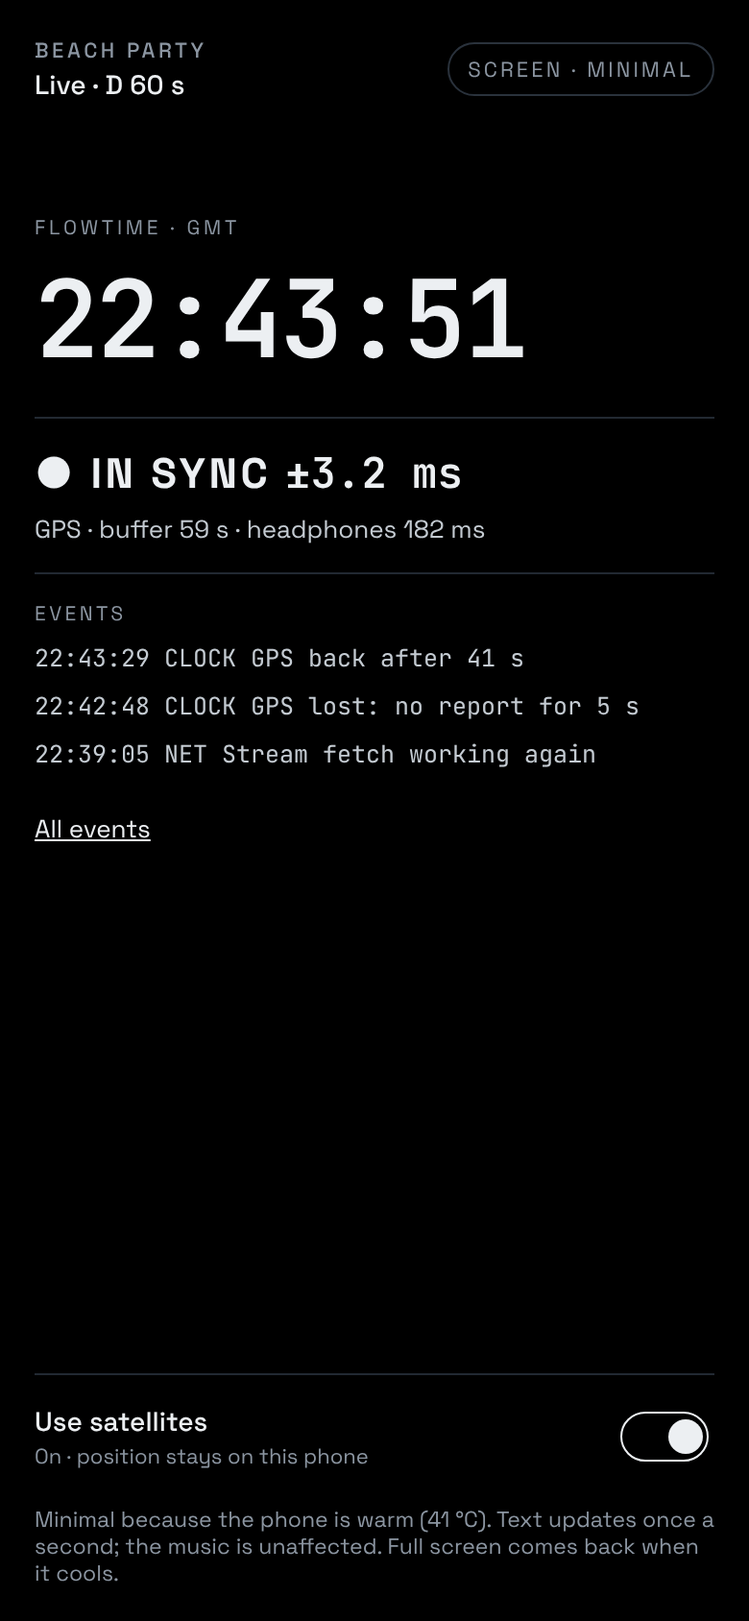
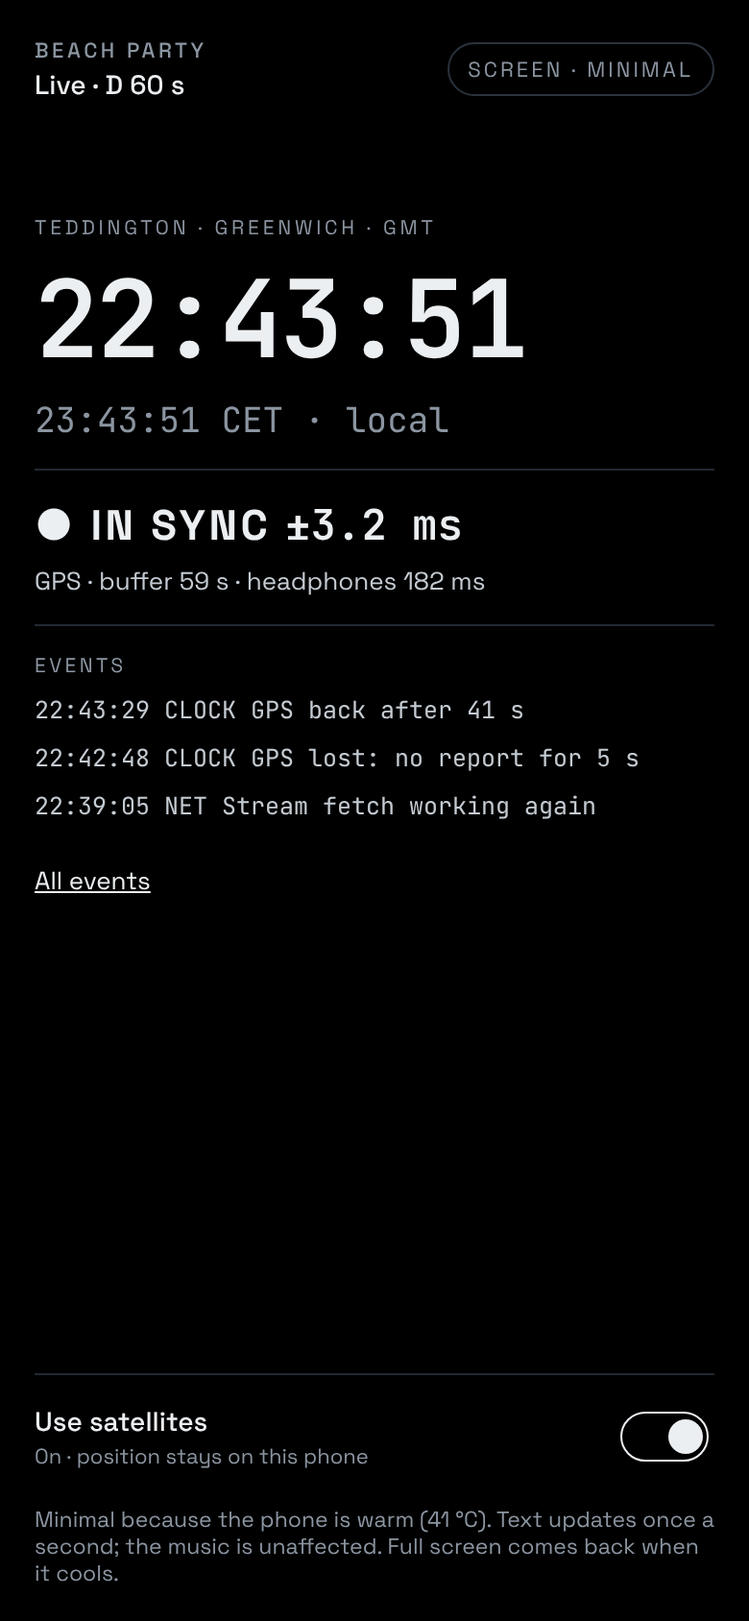
Add design hand-off 02 from Claude Desktop
Teddington and Greenwich clocks, a Settings screen, and updates to now playing,
Minimal, test bench, event log, tokens and the UI spec. Start at
design/handoff-02.md.

diff --git a/design/screens/now-playing.html b/design/screens/now-playing.html
@@ -12,7 +12,7 @@ a{color:#C8FF4D}a:hover{color:#E2FF9E}
 </style>
 </head>
 <body>
-<div style="width: 390px; height: 844px; box-sizing: border-box; background: #0A0C0F; color: #ECEFF2; font-family: 'Space Grotesk', system-ui, sans-serif; padding: 14px 18px 18px; display: flex; flex-direction: column; gap: 9px; overflow: hidden">
+<div style="width: 390px; height: 844px; box-sizing: border-box; background: #0A0C0F; color: #ECEFF2; font-family: 'Space Grotesk', system-ui, sans-serif; padding: 12px 18px 16px; display: flex; flex-direction: column; gap: 8px; overflow: hidden">
 
   <div style="display: flex; justify-content: space-between; align-items: center">
     <div style="display: flex; flex-direction: column; gap: 2px">
@@ -26,22 +26,32 @@ a{color:#C8FF4D}a:hover{color:#E2FF9E}
       <a href="headphone-lag.html" aria-label="Headphone lag" style="width: 44px; height: 44px; border-radius: 12px; border: 1px solid #222932; display: flex; align-items: center; justify-content: center; color: #ECEFF2">
         <svg width="20" height="20" viewBox="0 0 24 24" fill="none" stroke="currentColor" stroke-width="1.6" aria-hidden="true"><path d="M4 14v-2a8 8 0 0 1 16 0v2"></path><rect x="3" y="14" width="4" height="6" rx="1.5"></rect><rect x="17" y="14" width="4" height="6" rx="1.5"></rect></svg>
       </a>
+      <a href="settings.html" aria-label="Settings" style="width: 44px; height: 44px; border-radius: 12px; border: 1px solid #222932; display: flex; align-items: center; justify-content: center; color: #ECEFF2">
+        <svg width="20" height="20" viewBox="0 0 24 24" fill="none" stroke="currentColor" stroke-width="1.6" aria-hidden="true"><path d="M4 7h10M18 7h2M4 17h4M12 17h8"></path><circle cx="16" cy="7" r="2"></circle><circle cx="10" cy="17" r="2"></circle></svg>
+      </a>
     </div>
   </div>
 
-  <div style="position: relative; width: 184px; height: 184px; align-self: center">
-    <svg width="184" height="184" viewBox="0 0 220 220" role="img" aria-label="Brocast clock with second sweep and precision ring" style="position: absolute; left: 0; top: 0">
-      <circle cx="110" cy="110" r="104" fill="none" stroke="#2A323C" stroke-width="6" stroke-dasharray="1.4 9.49"></circle>
-      <circle cx="110" cy="110" r="92" fill="none" stroke="#1A1F26" stroke-width="3"></circle>
-      <circle cx="110" cy="110" r="92" fill="none" stroke="#C8FF4D" stroke-width="3" stroke-linecap="round" stroke-dasharray="137 578" transform="rotate(-90 110 110)"></circle>
-      <circle cx="110" cy="110" r="80" fill="none" stroke="#C8FF4D" stroke-opacity="0.35" stroke-width="1"></circle>
-      <circle cx="110" cy="110" r="80" fill="none" stroke="#C8FF4D" stroke-opacity="0.12" stroke-width="7"></circle>
+  <div style="position: relative; width: 206px; height: 206px; flex: none; align-self: center">
+    <svg width="206" height="206" viewBox="0 0 252 252" role="img" aria-label="Brocast clock: Teddington and Greenwich time on the bezel, a second sweep and a precision ring of plus or minus 0.4 milliseconds" style="position: absolute; left: 0; top: 0">
+      <defs>
+        <path id="bezel-top" d="M 13 126 A 113 113 0 0 1 239 126"></path>
+        <path id="bezel-bottom" d="M 7 126 A 119 119 0 0 0 245 126"></path>
+      </defs>
+      <circle cx="126" cy="126" r="104" fill="none" stroke="#2A323C" stroke-width="6" stroke-dasharray="1.4 9.49"></circle>
+      <line x1="126" y1="17" x2="126" y2="29" stroke="#C8FF4D" stroke-width="2"></line>
+      <circle cx="126" cy="126" r="92" fill="none" stroke="#1A1F26" stroke-width="3"></circle>
+      <circle cx="126" cy="126" r="92" fill="none" stroke="#C8FF4D" stroke-width="3" stroke-linecap="round" stroke-dasharray="137 578" transform="rotate(-90 126 126)"></circle>
+      <circle cx="126" cy="126" r="80" fill="none" stroke="#C8FF4D" stroke-opacity="0.35" stroke-width="1"></circle>
+      <circle cx="126" cy="126" r="80" fill="none" stroke="#C8FF4D" stroke-opacity="0.12" stroke-width="7"></circle>
+      <text font-family="Space Grotesk, system-ui, sans-serif" font-size="10" font-weight="500" letter-spacing="2.4" fill="#C4CBD2"><textPath href="#bezel-top" startOffset="50%" text-anchor="middle">TEDDINGTON · GREENWICH</textPath></text>
+      <text font-family="JetBrains Mono, monospace" font-size="10" letter-spacing="1.2" fill="#C8FF4D"><textPath href="#bezel-bottom" startOffset="50%" text-anchor="middle">FLOWTIME ±0.4 ms</textPath></text>
     </svg>
-    <div style="position: absolute; inset: 0; display: flex; flex-direction: column; align-items: center; justify-content: center; gap: 2px">
-      <span style="font-size: 10.5px; letter-spacing: 0.18em; color: #8B95A1">FLOWTIME · GMT</span>
-      <span style="font-family: 'JetBrains Mono', ui-monospace, monospace; font-size: 32px; font-weight: 600; letter-spacing: -0.02em">22:43:51</span>
-      <span style="font-family: 'JetBrains Mono', ui-monospace, monospace; font-size: 16px"><span style="color: #ECEFF2">.237 4</span><span style="color: #6B7580">82 913</span></span>
-      <span style="font-family: 'JetBrains Mono', ui-monospace, monospace; font-size: 11px; color: #C8FF4D; margin-top: 4px">ring ±0.4 ms</span>
+    <div style="position: absolute; inset: 0; display: flex; flex-direction: column; align-items: center; justify-content: center; gap: 1px">
+      <span style="font-size: 10.5px; letter-spacing: 0.2em; color: #8B95A1">GMT</span>
+      <span style="font-family: 'JetBrains Mono', ui-monospace, monospace; font-size: 30px; font-weight: 600; letter-spacing: -0.02em">22:43:51</span>
+      <span style="font-family: 'JetBrains Mono', ui-monospace, monospace; font-size: 15px"><span style="color: #ECEFF2">.237 4</span><span style="color: #6B7580">82 913</span></span>
+      <span style="font-family: 'JetBrains Mono', ui-monospace, monospace; font-size: 11px; color: #8B95A1; margin-top: 3px">23:43:51 CET · local</span>
     </div>
   </div>
 
@@ -61,7 +71,7 @@ a{color:#C8FF4D}a:hover{color:#E2FF9E}
     <svg width="16" height="16" viewBox="0 0 24 24" fill="none" stroke="currentColor" stroke-width="2" aria-hidden="true"><path d="M9 5l7 7-7 7"></path></svg>
   </a>
 
-  <div style="background: #12161B; border: 1px solid #222932; border-radius: 14px; padding: 12px 14px; display: flex; flex-direction: column; gap: 8px">
+  <div style="background: #12161B; border: 1px solid #222932; border-radius: 14px; padding: 10px 14px; display: flex; flex-direction: column; gap: 6px">
     <div style="display: flex; justify-content: space-between; align-items: baseline">
       <span style="font-size: 10.5px; letter-spacing: 0.16em; color: #8B95A1">SYNC ERROR BUDGET · 95%</span>
       <span style="font-family: 'JetBrains Mono', ui-monospace, monospace; font-size: 13px; color: #C8FF4D">±3.2 ms</span>
@@ -90,7 +100,7 @@ a{color:#C8FF4D}a:hover{color:#E2FF9E}
       <span style="font-size: 10.5px; letter-spacing: 0.16em; color: #8B95A1">STREAM GAP · 60 s</span>
       <span style="font-family: 'JetBrains Mono', ui-monospace, monospace; font-size: 12px; color: #C8FF4D">0.2 ms · closing</span>
     </div>
-    <svg width="100%" height="46" viewBox="0 0 350 90" preserveAspectRatio="none" role="img" aria-label="Stream gap over the last minute: a step when GPS came back, closing smoothly">
+    <svg width="100%" height="34" viewBox="0 0 350 90" preserveAspectRatio="none" role="img" aria-label="Stream gap over the last minute: a step when GPS came back, closing smoothly">
       <rect x="0" y="29" width="350" height="32" fill="#C8FF4D" fill-opacity="0.08"></rect>
       <line x1="0" y1="45" x2="350" y2="45" stroke="#2A323C" stroke-dasharray="3 4"></line>
       <polyline fill="none" stroke="#C8FF4D" stroke-width="1.6" stroke-linejoin="round" points="0.0,46.2 5.8,43.6 11.7,44.9 17.5,46.4 23.3,50.7 29.2,50.8 35.0,44.6 40.8,42.6 46.7,38.0 52.5,37.9 58.3,37.0 64.2,37.4 70.0,46.5 75.8,42.2 81.7,40.2 87.5,38.5 93.3,47.6 99.2,55.6 105.0,58.3 110.8,58.5 116.7,55.0 122.5,53.7 128.3,49.9 134.2,52.3 140.0,49.7 145.8,47.1 151.7,50.0 157.5,41.0 163.3,38.9 169.2,34.1 175.0,38.7 180.8,43.2 186.7,45.1 192.5,45.6 198.3,42.5 204.2,41.7 210.0,44.3 215.8,49.0 221.7,30.9 227.5,27.2 233.3,33.7 239.2,34.2 245.0,33.8 250.8,42.6 256.7,42.8 262.5,36.8 268.3,47.7 274.2,48.9 280.0,48.8 285.8,52.1 291.7,48.7 297.5,48.4 303.3,54.9 309.2,49.5 315.0,45.6 320.8,41.0 326.7,34.7 332.5,34.5 338.3,35.5 344.2,43.1 350.0,40.5"></polyline>
@@ -121,29 +131,16 @@ a{color:#C8FF4D}a:hover{color:#E2FF9E}
     </div>
   </div>
 
-  <div style="display: grid; grid-template-columns: repeat(2, minmax(0, 1fr)); gap: 8px">
-    <div style="display: flex; align-items: center; justify-content: space-between; gap: 4px; background: #12161B; border: 1px solid #222932; border-radius: 12px; padding: 4px 4px 4px 12px">
-      <div style="display: flex; flex-direction: column; gap: 1px; min-width: 0">
-        <span style="font-size: 13.5px; font-weight: 500">Use satellites</span>
-        <span style="font-size: 10.5px; color: #8B95A1">Stays on phone</span>
-      </div>
-      <button aria-pressed="true" aria-label="Use satellites, on" style="appearance: none; width: 52px; height: 44px; flex: none; background: transparent; border: none; padding: 0; display: flex; align-items: center; justify-content: center; cursor: pointer">
-        <span style="width: 46px; height: 26px; border-radius: 13px; background: #C8FF4D; display: flex; align-items: center; justify-content: flex-end; padding: 2px; box-sizing: border-box">
-          <span style="width: 22px; height: 22px; border-radius: 50%; background: #0A0C0F"></span>
-        </span>
-      </button>
+  <div style="display: flex; align-items: center; justify-content: space-between; gap: 12px; background: #12161B; border: 1px solid #222932; border-radius: 12px; padding: 4px 4px 4px 12px">
+    <div style="display: flex; flex-direction: column; gap: 1px">
+      <span style="font-size: 14px; font-weight: 500">Use satellites</span>
+      <span style="font-size: 11px; color: #8B95A1">Position stays on this phone · off = Privacy mode</span>
     </div>
-    <div style="display: flex; align-items: center; justify-content: space-between; gap: 4px; background: #12161B; border: 1px solid #222932; border-radius: 12px; padding: 4px 4px 4px 12px">
-      <div style="display: flex; flex-direction: column; gap: 1px; min-width: 0">
-        <span style="font-size: 13.5px; font-weight: 500">Strict mode</span>
-        <span style="font-size: 10.5px; color: #8B95A1">Silent over 5 ms</span>
-      </div>
-      <button aria-pressed="false" aria-label="Strict mode, off" style="appearance: none; width: 52px; height: 44px; flex: none; background: transparent; border: none; padding: 0; display: flex; align-items: center; justify-content: center; cursor: pointer">
-        <span style="width: 46px; height: 26px; border-radius: 13px; border: 1.5px solid #4A5562; display: flex; align-items: center; padding: 2px; box-sizing: border-box">
-          <span style="width: 18px; height: 18px; border-radius: 50%; background: #8B95A1"></span>
-        </span>
-      </button>
-    </div>
+    <button aria-pressed="true" aria-label="Use satellites, on" style="appearance: none; width: 52px; height: 44px; flex: none; background: transparent; border: none; padding: 0; display: flex; align-items: center; justify-content: center; cursor: pointer">
+      <span style="width: 46px; height: 26px; border-radius: 13px; background: #C8FF4D; display: flex; align-items: center; justify-content: flex-end; padding: 2px; box-sizing: border-box">
+        <span style="width: 22px; height: 22px; border-radius: 50%; background: #0A0C0F"></span>
+      </span>
+    </button>
   </div>
 
 </div>

diff --git a/design/screens/settings.html b/design/screens/settings.html
@@ -1,0 +1,88 @@
+<!doctype html>
+<html lang="en">
+<head>
+<meta charset="utf-8">
+<meta name="viewport" content="width=390">
+<title>Settings · Beach Sync</title>
+<!-- Exported from the Beach Sync UI Mock-ups canvas. Static: tokens are in ../tokens.json, behaviour in ../ui-spec.md -->
+<link rel="stylesheet" href="https://fonts.googleapis.com/css2?family=JetBrains+Mono:wght@400;600&amp;family=Space+Grotesk:wght@400;500;700&amp;display=swap">
+<style>
+body{margin:0;background:#0A0C0F}
+a{color:#C8FF4D}a:hover{color:#E2FF9E}
+</style>
+</head>
+<body>
+<div style="width: 390px; height: 844px; box-sizing: border-box; background: #0A0C0F; color: #ECEFF2; font-family: 'Space Grotesk', system-ui, sans-serif; padding: 14px 18px 18px; display: flex; flex-direction: column; gap: 10px; overflow: hidden">
+
+  <a href="now-playing.html" style="display: flex; align-items: center; gap: 6px; min-height: 44px; text-decoration: none; color: #ECEFF2; font-size: 18px; font-weight: 700">
+    <svg width="18" height="18" viewBox="0 0 24 24" fill="none" stroke="currentColor" stroke-width="2" aria-hidden="true"><path d="M15 5l-7 7 7 7"></path></svg>
+    Settings
+  </a>
+
+  <span style="font-size: 10.5px; letter-spacing: 0.16em; color: #8B95A1; margin-top: 4px">LISTENING</span>
+  <div style="background: #12161B; border: 1px solid #222932; border-radius: 14px; padding: 0 4px 0 14px; display: flex; flex-direction: column">
+    <div style="display: flex; align-items: center; justify-content: space-between; gap: 12px; min-height: 60px; border-bottom: 1px solid #1A1F26">
+      <div style="display: flex; flex-direction: column; gap: 2px">
+        <span style="font-size: 14px; font-weight: 500">Use satellites</span>
+        <span style="font-size: 11px; color: #8B95A1">Position stays on this phone · off = Privacy mode</span>
+      </div>
+      <button aria-pressed="true" aria-label="Use satellites, on" style="appearance: none; width: 52px; height: 44px; flex: none; background: transparent; border: none; padding: 0; display: flex; align-items: center; justify-content: center; cursor: pointer">
+        <span style="width: 46px; height: 26px; border-radius: 13px; background: #C8FF4D; display: flex; align-items: center; justify-content: flex-end; padding: 2px; box-sizing: border-box"><span style="width: 22px; height: 22px; border-radius: 50%; background: #0A0C0F"></span></span>
+      </button>
+    </div>
+    <a href="headphone-lag.html" style="text-decoration: none; color: #ECEFF2; display: flex; align-items: center; justify-content: space-between; gap: 12px; min-height: 60px; padding-right: 10px; border-bottom: 1px solid #1A1F26">
+      <span style="display: flex; flex-direction: column; gap: 2px"><span style="font-size: 14px; font-weight: 500">Headphones</span><span style="font-size: 11px; color: #8B95A1">Bluetooth · 182 ms measured</span></span>
+      <svg width="16" height="16" viewBox="0 0 24 24" fill="none" stroke="currentColor" stroke-width="2" aria-hidden="true"><path d="M9 5l7 7-7 7"></path></svg>
+    </a>
+    <div style="display: flex; align-items: center; justify-content: space-between; gap: 12px; min-height: 60px">
+      <div style="display: flex; flex-direction: column; gap: 2px">
+        <span style="font-size: 14px; font-weight: 500">Local time under the clock</span>
+        <span style="font-size: 11px; color: #8B95A1">Teddington · Greenwich stays on top</span>
+      </div>
+      <button aria-pressed="true" aria-label="Local time under the clock, on" style="appearance: none; width: 52px; height: 44px; flex: none; background: transparent; border: none; padding: 0; display: flex; align-items: center; justify-content: center; cursor: pointer">
+        <span style="width: 46px; height: 26px; border-radius: 13px; background: #C8FF4D; display: flex; align-items: center; justify-content: flex-end; padding: 2px; box-sizing: border-box"><span style="width: 22px; height: 22px; border-radius: 50%; background: #0A0C0F"></span></span>
+      </button>
+    </div>
+  </div>
+
+  <span style="font-size: 10.5px; letter-spacing: 0.16em; color: #8B95A1; margin-top: 4px">SCREEN</span>
+  <div style="background: #12161B; border: 1px solid #222932; border-radius: 14px; padding: 0 4px 0 14px; display: flex; flex-direction: column">
+    <div style="display: flex; align-items: center; justify-content: space-between; gap: 12px; min-height: 60px; border-bottom: 1px solid #1A1F26">
+      <div style="display: flex; flex-direction: column; gap: 2px">
+        <span style="font-size: 14px; font-weight: 500">No flashing</span>
+        <span style="font-size: 11px; color: #8B95A1">Light shows stay steady; always respected</span>
+      </div>
+      <button aria-pressed="false" aria-label="No flashing, off" style="appearance: none; width: 52px; height: 44px; flex: none; background: transparent; border: none; padding: 0; display: flex; align-items: center; justify-content: center; cursor: pointer">
+        <span style="width: 46px; height: 26px; border-radius: 13px; border: 1.5px solid #4A5562; display: flex; align-items: center; padding: 2px; box-sizing: border-box"><span style="width: 18px; height: 18px; border-radius: 50%; background: #8B95A1"></span></span>
+      </button>
+    </div>
+    <div style="display: flex; align-items: center; justify-content: space-between; gap: 12px; min-height: 60px; padding-right: 10px">
+      <span style="display: flex; flex-direction: column; gap: 2px"><span style="font-size: 14px; font-weight: 500">Screen level</span><span style="font-size: 11px; color: #8B95A1">Automatic: heat, frames, underruns, battery</span></span>
+      <span style="font-family: 'JetBrains Mono', ui-monospace, monospace; font-size: 13px; color: #C8FF4D">FULL</span>
+    </div>
+  </div>
+
+  <span style="font-size: 10.5px; letter-spacing: 0.16em; color: #8B95A1; margin-top: 4px">ADVANCED</span>
+  <div style="background: #12161B; border: 1px solid #222932; border-radius: 14px; padding: 0 4px 12px 14px; display: flex; flex-direction: column; gap: 6px">
+    <div style="display: flex; align-items: center; justify-content: space-between; gap: 12px; min-height: 60px">
+      <div style="display: flex; flex-direction: column; gap: 2px">
+        <span style="font-size: 14px; font-weight: 500">Strict mode <span style="font-size: 10px; font-weight: 700; letter-spacing: 0.12em; color: #8B95A1; border: 1px solid #4A5562; border-radius: 6px; padding: 1px 6px; margin-left: 4px">EVENTS ONLY</span></span>
+        <span style="font-size: 11px; color: #8B95A1">Silent rather than out of sync</span>
+      </div>
+      <button aria-pressed="false" aria-label="Strict mode, off" style="appearance: none; width: 52px; height: 44px; flex: none; background: transparent; border: none; padding: 0; display: flex; align-items: center; justify-content: center; cursor: pointer">
+        <span style="width: 46px; height: 26px; border-radius: 13px; border: 1.5px solid #4A5562; display: flex; align-items: center; padding: 2px; box-sizing: border-box"><span style="width: 18px; height: 18px; border-radius: 50%; background: #8B95A1"></span></span>
+      </button>
+    </div>
+    <div style="display: flex; flex-direction: column; gap: 6px; padding-right: 10px; opacity: 0.5">
+      <div style="display: flex; justify-content: space-between; align-items: baseline">
+        <label for="strict-limit" style="font-size: 12.5px; color: #C4CBD2">My limit</label>
+        <span style="font-family: 'JetBrains Mono', ui-monospace, monospace; font-size: 14px; font-weight: 600">±5 ms</span>
+      </div>
+      <input id="strict-limit" type="range" min="1" max="50" value="5" disabled aria-valuetext="5 milliseconds" style="width: 100%; height: 44px; margin: 0; accent-color: #C8FF4D">
+      <span style="font-size: 11px; color: #8B95A1">1 to 50 ms. Can only be tighter than the event's own limit; does nothing on the radio.</span>
+    </div>
+  </div>
+
+</div>
+</body>
+</html>

diff --git a/design/screens/test-bench.html b/design/screens/test-bench.html
@@ -26,8 +26,9 @@ a{color:#C8FF4D}a:hover{color:#E2FF9E}
 
   <div style="background: #12161B; border: 1px solid #222932; border-radius: 14px; padding: 10px 14px; display: flex; justify-content: space-between; align-items: center; gap: 10px">
     <div style="display: flex; flex-direction: column; gap: 2px">
-      <span style="font-size: 10.5px; letter-spacing: 0.16em; color: #8B95A1">FLOWTIME · GMT</span>
+      <span style="font-size: 10.5px; letter-spacing: 0.12em; color: #8B95A1">TEDDINGTON · GREENWICH</span>
       <span style="font-family: 'JetBrains Mono', ui-monospace, monospace; font-size: 24px; font-weight: 600; letter-spacing: -0.02em">22:43:51<span style="color: #ECEFF2">.237</span></span>
+      <span style="font-family: 'JetBrains Mono', ui-monospace, monospace; font-size: 11px; color: #8B95A1">GMT · local 23:43:51 CET</span>
     </div>
     <div style="display: flex; flex-direction: column; align-items: flex-end; gap: 2px">
       <span style="font-family: 'JetBrains Mono', ui-monospace, monospace; font-size: 15px; font-weight: 600; color: #C8FF4D">GPS ±0.4 ms</span>

diff --git a/design/screens/now-playing-minimal.html b/design/screens/now-playing-minimal.html
@@ -23,8 +23,9 @@ a{color:#C8FF4D}a:hover{color:#E2FF9E}
   </div>
 
   <div style="display: flex; flex-direction: column; gap: 4px; margin-top: 40px">
-    <span style="font-size: 10.5px; letter-spacing: 0.18em; color: #8B95A1">FLOWTIME · GMT</span>
+    <span style="font-size: 10.5px; letter-spacing: 0.18em; color: #8B95A1">TEDDINGTON · GREENWICH · GMT</span>
     <span style="font-family: 'JetBrains Mono', ui-monospace, monospace; font-size: 56px; font-weight: 600; letter-spacing: -0.03em">22:43:51</span>
+    <span style="font-family: 'JetBrains Mono', ui-monospace, monospace; font-size: 18px; color: #8B95A1">23:43:51 CET · local</span>
   </div>
 
   <div style="display: flex; flex-direction: column; gap: 6px; padding: 14px 0; border-top: 1px solid #222932; border-bottom: 1px solid #222932">

diff --git a/design/screens/event-log.html b/design/screens/event-log.html
@@ -120,7 +120,7 @@ a{color:#C8FF4D}a:hover{color:#E2FF9E}
     </div>
   </div>
 
-  <span style="font-size: 11px; color: #8B95A1">Times are flowtime. Before there is a time source, events show <span style="font-family: 'JetBrains Mono', ui-monospace, monospace">--:--:--</span>. At the Minimal screen level this screen is plain text.</span>
+  <span style="font-size: 11px; color: #8B95A1">Times are flowtime on Teddington · Greenwich time (GMT or BST). Before there is a time source, events show <span style="font-family: 'JetBrains Mono', ui-monospace, monospace">--:--:--</span>. At the Minimal screen level this screen is plain text.</span>
 
 </div>
 </body>

diff --git a/design/ui-spec.md b/design/ui-spec.md
@@ -1,4 +1,4 @@
-# UI spec (hand-off 01)
+# UI spec (hand-off 02)
 
 Field names come from Claude Code's "Fields that exist today" table in `feedback.md`, as of 1 Nov 2026. If one has been renamed since, use the new name.
 
@@ -12,7 +12,7 @@ Field names come from Claude Code's "Fields that exist today" table in `feedback
 - **Units:** every duration uses adaptive units, like `Session.fmtNs` (ns, µs, ms), at three significant figures. Every live number is in JetBrains Mono.
 - **Sync error:** the figure shown to the listener is `errAt(boot)` plus the absolute held gap (`NudgeControl.gapAt`). It will add the headphone-lag uncertainty **later**. Every ± in a badge is this number.
 - **Flowtime error and stream gap are separate.** Never add them together on screen, except in the badge figure above.
-- **Times** come from flowtime, never the system clock. Show `--:--:--` before there is a time source. The zone label is an open question (see the hand-off).
+- **Times** come from flowtime, never the system clock. Show `--:--:--` before there is a time source. The main clock and the event log show UK time (`Europe/London`, GMT or BST), branded **Teddington · Greenwich**. Local time sits beneath, using only the phone's time-zone setting, never its clock. Hide it when its offset equals UK time's. CSV logs stay in UTC ns.
 - **Tightening** (see Badge states) appears only when `EventDetector.tighteningFromNs` reports an improvement of at least 20% sustained for 10 s. Smaller changes update quietly, with no animation.
 - **Screen levels** (Full, Reduced, Minimal, Off): see the last section. Every screen follows them.
 - **Accessibility:** use words and a mark, never colour alone. Every tappable item is at least 44 × 44. Respect reduced motion: no sweep and no glow pulse. Screen-reader labels match the visible words.
@@ -25,18 +25,30 @@ Field names come from Claude Code's "Fields that exist today" table in `feedback
 
 | Element | Shows | Source | States and taps | Status |
 |---|---|---|---|---|
-| Header | Event or station name, `Live · D 60 s` | `StreamClient.manifest.dMs`; the name is **later** | Icon buttons (44 × 44) for Time signals and Headphone lag | now |
-| Brocast clock | Flowtime, with HH:MM:SS large and the fraction to the ns. Digits finer than the error are drawn in `faded`. | `FlowTime.fit().utcAt(boot)` at the frame's presentation time | Screenlag correction is **later**; use the frame time until then | now (basic) |
+| Header | Event or station name, `Live · D 60 s` | `StreamClient.manifest.dMs`; the name is **later** | Icon buttons (44 × 44) for Time signals, Headphone lag and Settings | now |
+| Brocast clock | A dial. Along the top of the bezel, curved: `TEDDINGTON · GREENWICH`, with an accent meridian tick at 12 o'clock between the two names. Inside: the zone (GMT or BST), HH:MM:SS large, the fraction to the ns (digits finer than the error in `faded`), then local time beneath (`23:43:51 CET · local`). Along the bottom of the bezel, curved: `FLOWTIME ±error` in accent. | `FlowTime.fit().utcAt(boot)` at the frame's presentation time; `ZoneId.of("Europe/London")`; `ZoneId.systemDefault()` for the local line | Local line hidden when its offset equals UK time's. Screenlag correction is **later**. Draw the curved text with `drawTextOnPath`, or the Compose equivalent. | now |
 | Second sweep | An arc that fills once per flowtime second | The fraction of the current second | Off at Reduced level and with reduced motion | now |
-| Precision ring | A glow whose width shows the sync error on the budget's log scale, labelled `ring ±x` | Sync error | | now |
+| Precision ring | A glow whose width shows the sync error on the budget's log scale; its figure is on the bottom bezel | Sync error | | now |
 | Sync badge | Words, the ± figure and the source | See Badge states | Tapping opens the error budget detail | now |
 | Latest event | Time, lane mark and name, and one line of text, **directly under the badge** | `EventLog.latest()` | Tapping opens the Event log. A banner elsewhere links to its own event. | now |
 | Sync error budget | Bars on a log scale from 1 µs to 10 ms: flowtime, headphone lag, total, screenlag | `errAt` now; headphone-lag uncertainty and screenlag **later** | | partly |
 | Stream gap card | Header: the gap now and whether it's closing. Trace: the last 60 s of gap. | `NudgeControl.gapAt`; the trace needs history, which is **later** | | partly |
 | Gap footer | Mode chip (AUTO or MANUAL), time left and pitch change | `NudgeControl.mode`, `secondsLeft`, `state.rate` | Tapping opens Nudge control | now |
 | Tiles | SOURCE, HEADPHONES, BUFFER (seconds in hand out of D) | `FlowTime.chosen`, `GpsTime`, `Settings.lagMs`, `StreamClient.buffered` | SOURCE opens Time signals; HEADPHONES opens Headphone lag | now |
-| Use satellites | A switch, never locked, one tap from the main screen. Shows `Stays on phone`. | `GpsTime.active` | Off: the badge becomes Privacy mode. On: asks for location permission if needed; if refused, it returns to off. | now |
-| Strict mode | A switch and its limit | Not built | See the open questions in the hand-off | later |
+| Use satellites | A full-width row with a switch, never locked, one tap from the main screen. Shows `Position stays on this phone · off = Privacy mode`. | `GpsTime.active` | Off: the badge becomes Privacy mode. On: asks for location permission if needed; if refused, it returns to off. | now |
+
+## Settings
+
+![](screens/settings.png)
+
+| Element | Shows | Source | States and taps | Status |
+|---|---|---|---|---|
+| LISTENING · Use satellites | The same switch as Now playing | `GpsTime.active` | Never locked | now |
+| LISTENING · Headphones | Route and lag, as a link | `Playout.track.routedDevice`, `Settings.lagMs` | Opens Headphone lag | now |
+| LISTENING · Local time under the clock | A switch, on by default | A new setting | Off hides the local line on every clock | now |
+| SCREEN · No flashing | A switch, off by default | Not built (light show) | Always respected; screen levels never override it | later |
+| SCREEN · Screen level | The current automatic level | Not built | Read-only | later |
+| ADVANCED · Strict mode | A switch tagged `EVENTS ONLY`, off by default, plus a `My limit` slider (1–50 ms, default 5), dimmed while off | Not built (needs events) | Applies only inside an event, and can only tighten the event's own limit. On the radio it does nothing, and the caption says so. | later |
 
 ## Badge states
 

diff --git a/design/handoff-02.md b/design/handoff-02.md
@@ -1,0 +1,21 @@
+# Hand-off 02 (1 Nov 2026): the Teddington · Greenwich clock, and strict mode moved
+
+The user made three decisions:
+
+1. Clocks lead with UK time, branded **Teddington · Greenwich** as a deliberately quirky touch, with local time beneath.
+2. Strict mode leaves the main screen. It moves to Settings › Advanced and applies **at events only**.
+3. The next design round is the notification and lock screen (hand-off 03).
+
+## What changed
+
+| Item | Change | Needs code? |
+|---|---|---|
+| `screens/now-playing` | The dial's bezel reads `TEDDINGTON · GREENWICH`, curved along the top, with an accent meridian tick at 12 o'clock. `FLOWTIME ±0.4 ms` runs curved along the bottom. Inside: `GMT`, the time, its fraction, and `23:43:51 CET · local`. The dial is 206 px. Strict mode is gone; Use satellites gets a full-width row. The header gains a Settings button. | yes |
+| `screens/settings` | **New:** Listening (Use satellites, Headphones, Local time under the clock), Screen (No flashing, Screen level), Advanced (Strict mode, events only, with My limit) | yes |
+| `screens/now-playing-minimal` | Label `TEDDINGTON · GREENWICH · GMT`; local time beneath | yes |
+| `screens/test-bench` | Label `TEDDINGTON · GREENWICH`; `GMT · local 23:43:51 CET` under the time | yes, small |
+| `screens/event-log` | The footnote says event times are Teddington · Greenwich time | text only |
+| `tokens.json` | New: `type.clockZone`, `clockLocal`, `bezelTop`, `bezelBottom`. Clock 30 px, fraction 15 px. | yes |
+| `ui-spec.md` | Changed: Rules › Times, Now playing (Header, Brocast clock, Precision ring, Use satellites). New: Settings. Strict mode removed from Now playing. | — |
+
+The example local time uses CET. The real line follows the phone's time-zone setting and hides itself when its offset matches UK time.
